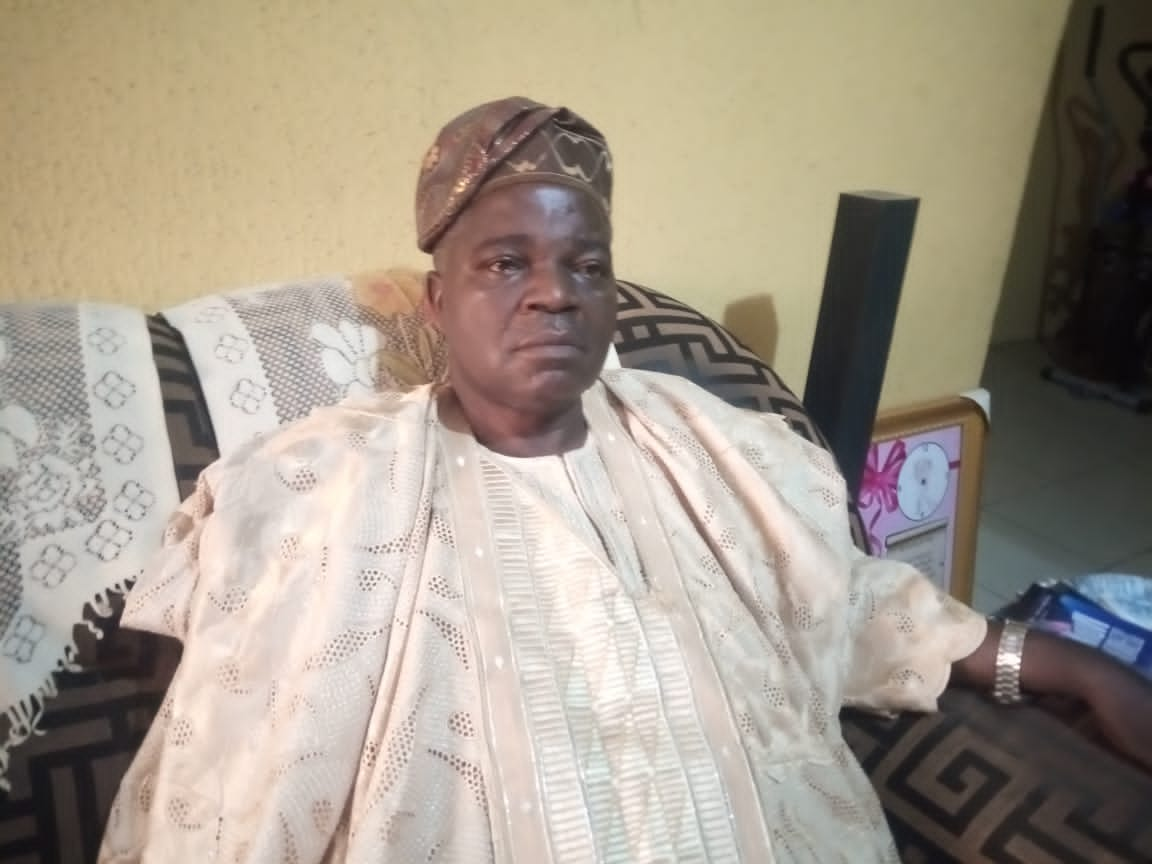
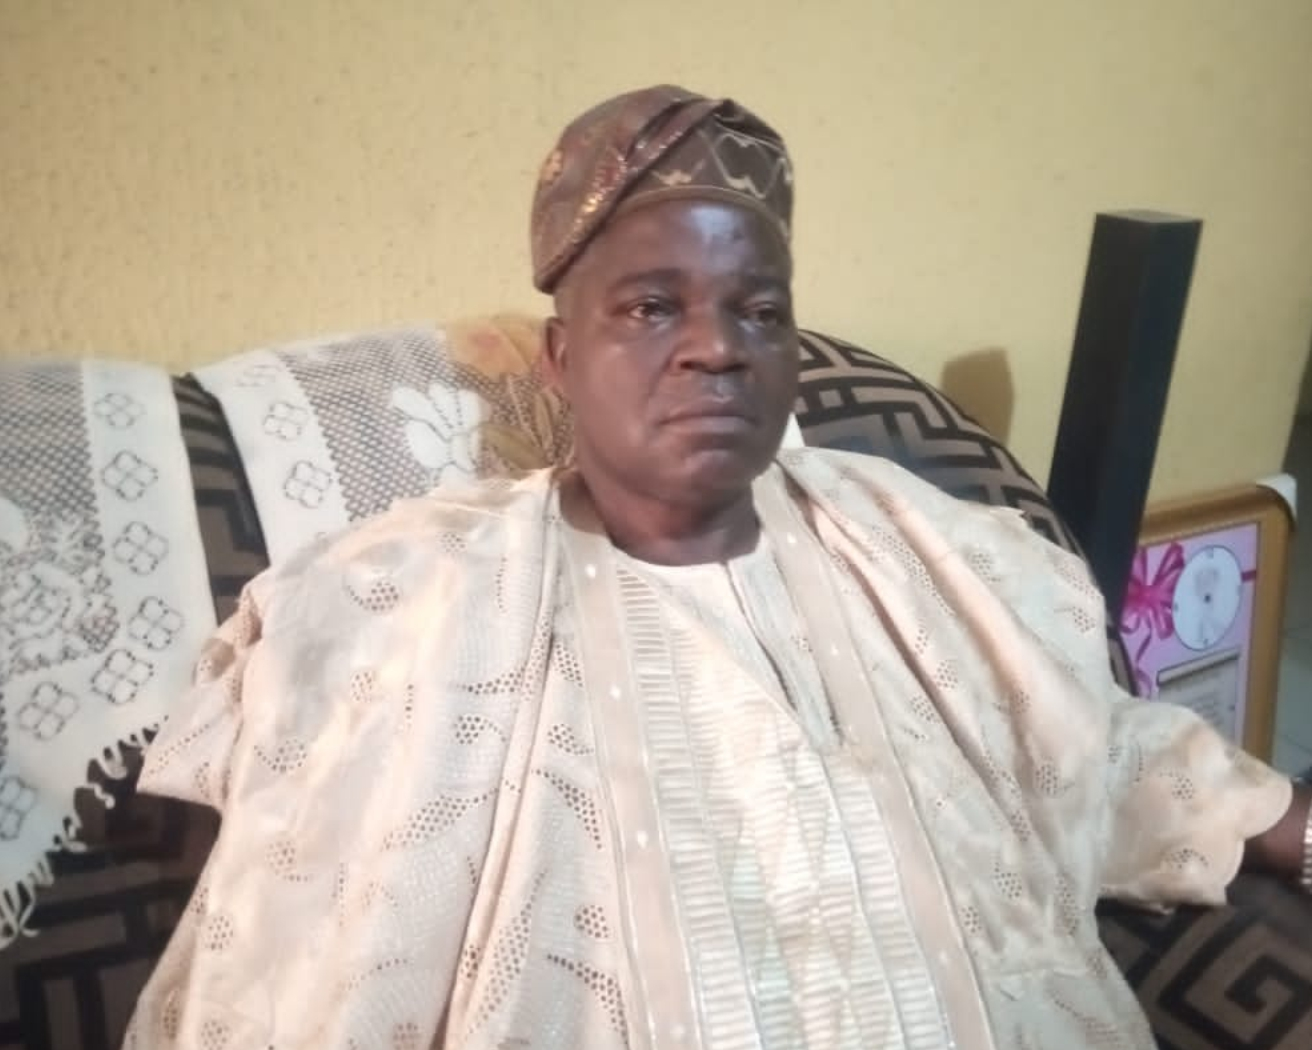
commit on 'master'

diff --git a/index.html b/index.html
@@ -122,7 +122,7 @@
 			
 			<!-- START HOME -->
 			<section id="home" class="slider-active owl-carousel" >			
-				<div class="atf-single-home" style="background-image: url(images/hero1.jpeg);  background-size:cover; background-position: center center;">
+				<div class="atf-single-home" style="background-image: url(images/hero1a.jpg);  background-size:cover; background-position: center center;">
 					<div class="atf-home-overlay">
 						<div class="container">
 							<div class="row justify-content-center">
@@ -146,7 +146,7 @@
 					</div><!--- END slide -->			
 				</div><!--- END slide -->			
 				
-				<div class="atf-single-home" style="background-image: url(images/hero1.jpeg);  background-size:cover; background-position: center center;">
+				<div class="atf-single-home" style="background-image: url(images/hero1a.jpg);  background-size:cover; background-position: center center;">
 					<div class="atf-home-overlay">
 						<div class="container">
 							<div class="row justify-content-center">
@@ -167,7 +167,7 @@
 					</div><!--- END Overlay -->			
 				</div><!--- END slide -->			
 				
-				<div class="atf-single-home" style="background-image: url(images/hero1.jpeg);  background-size:cover; background-position: center center;">
+				<div class="atf-single-home" style="background-image: url(images/hero1a.jpg);  background-size:cover; background-position: center center;">
 					<div class="atf-home-overlay">
 						<div class="container">
 							<div class="row justify-content-center">
@@ -486,12 +486,12 @@
 						<div class="col-lg-4 col-md-6 grid-item mb-3">
 							<div class="atf-single-portfolio">
 								<div class="atf-portfolio-img">
-									<img src="images/hero1.jpeg" alt="Portfolio Image">
+									<img src="images/img1a.jpg" alt="Portfolio Image">
 								</div>
 								<div class="atf-portfolio-content">
 									<div class="display-table">
 										<div class="display-table-cell">
-											<a class="image-popup p-zoom" href="images/hero1.jpeg" title="South Africa">
+											<a class="image-popup p-zoom" href="images/img1a.jpg" title="South Africa">
 												<i class="fa fa-search p-zoom"></i>
 											</a>
 											<h3 class="p-title"><a href="#"></a></h3>
@@ -504,12 +504,12 @@
 						<div class="col-lg-4 col-md-6 grid-item mb-3">
 							<div class="atf-single-portfolio">
 								<div class="atf-portfolio-img">
-									<img src="images/about.jpeg" alt="Portfolio Image">
+									<img src="images/img1b.jpg" alt="Portfolio Image">
 								</div>
 								<div class="atf-portfolio-content">
 									<div class="display-table">
 										<div class="display-table-cell">
-											<a class="image-popup p-zoom" href="images/about.jpeg" title="South Africa">
+											<a class="image-popup p-zoom" href="images/img1b.jpg" title="South Africa">
 												<i class="fa fa-search p-zoom"></i>
 											</a>
 											<h3 class="p-title"><a href="#"></a></h3>

diff --git a/assets/css/style.css b/assets/css/style.css
@@ -114,10 +114,17 @@ p {
 	font-weight: 400;
 }
 img {
-	max-width: 60%;
+	max-width: 100%;
 	height: auto;
 	border: 0;
 }
+
+.atf-about-image img {
+	max-width:60%;
+	height:auto;
+	border:0;
+}
+
 a {
 text-decoration: none;
 transition: all 0.2s ease 0s;
